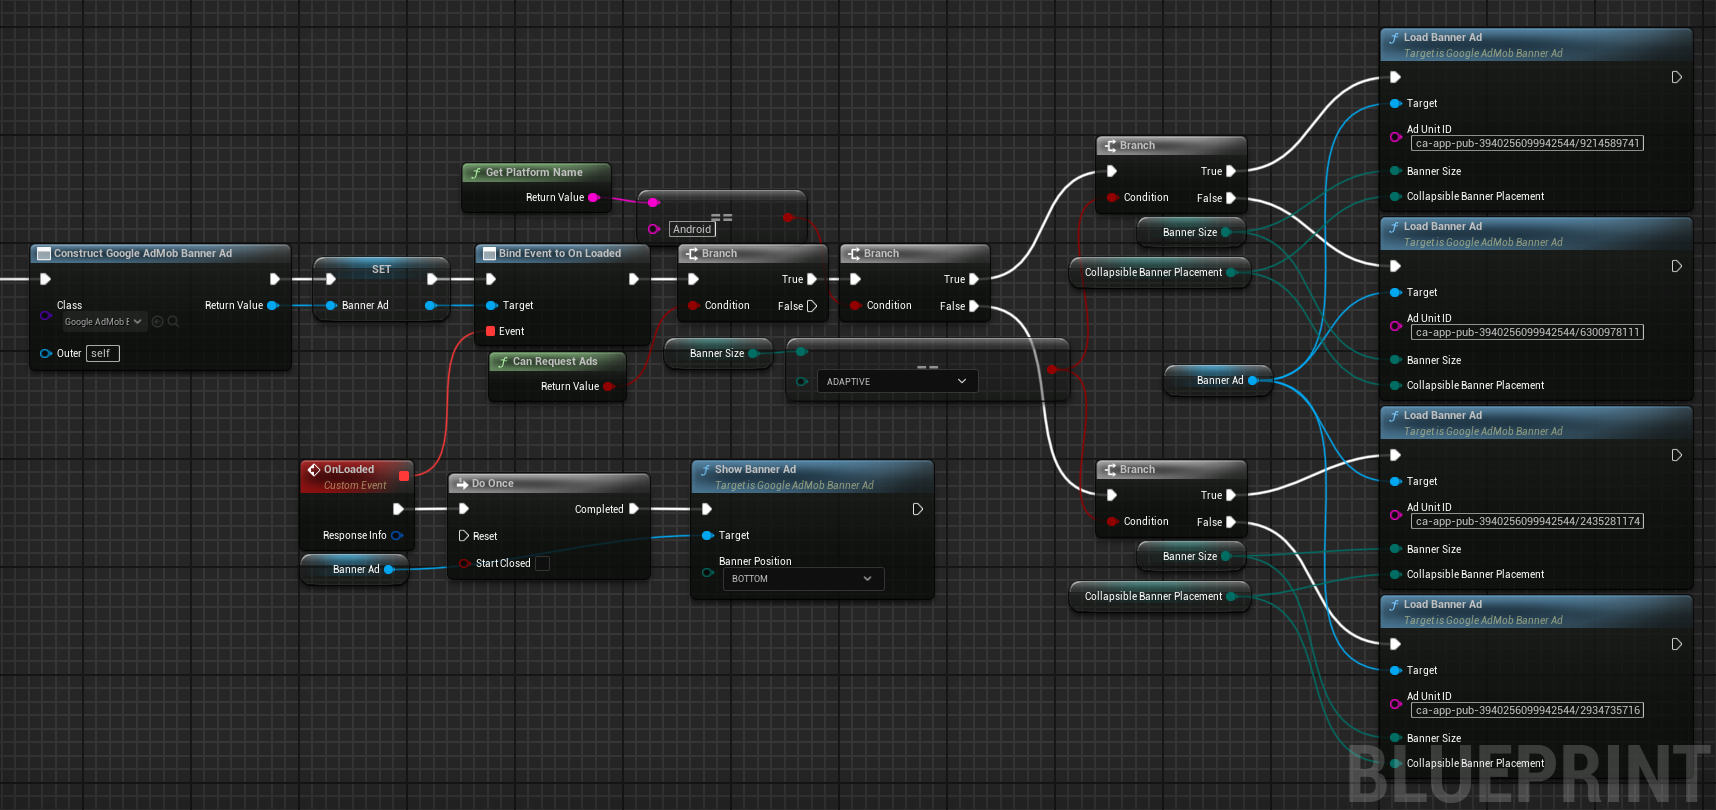
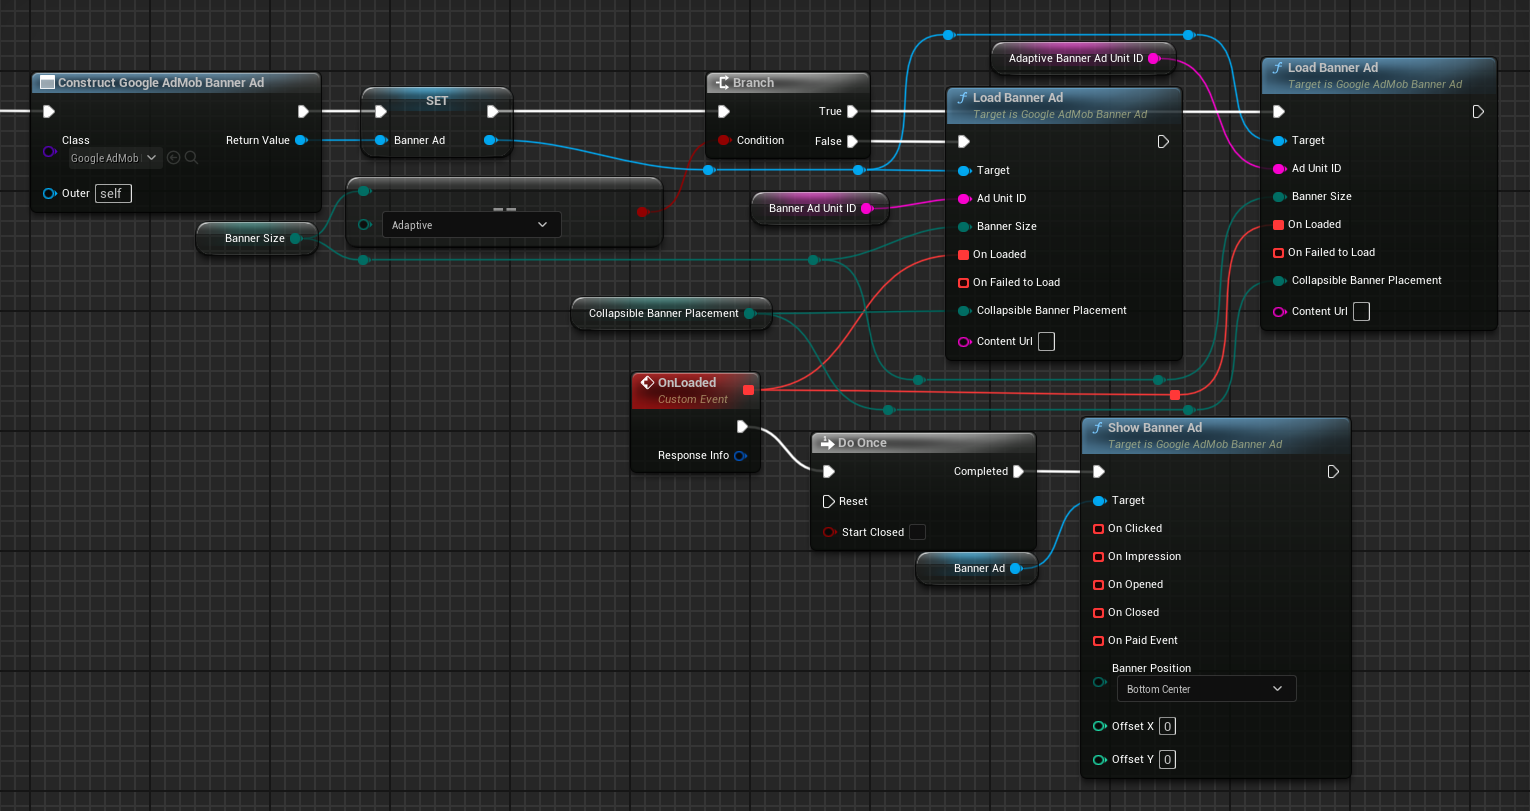
Update Google AdMob docs - Stage 2

Changed region(s): [[0.0, 0.0309, 1.0, 1.0]]

diff --git a/documentation/unreal-engine/google-admob/docs/ad-formats/banner-ads.md b/documentation/unreal-engine/google-admob/docs/ad-formats/banner-ads.md
@@ -1,3 +1,5 @@
+[If you like this plugin, please, rate it on Fab. Thank you!](https://fab.com/s/804df971aef3){ .md-button .md-button--primary }
+
 # Banner ads
 
 ![](../assets/format-banner.png){ align=left }
@@ -30,10 +32,7 @@ The following table lists the standard banner sizes.
 
 ## Prerequisites
 
-Complete the following steps described in the [Get Started guide](../index.md):
-
--   [Set up your app in your AdMob account](../index.md#set-up-your-app-in-your-admob-account).
--   [Configure your project](../index.md#configure-your-project).
+Complete the [Get Started guide](../index.md):
 
 ## Always test with test ads
 
@@ -64,15 +63,11 @@ Create a __`UGoogleAdMobBannerAd`__ object and then call __`Load()`__ method on 
 
     ``` c++
     class UGoogleAdMobBannerAd;
-    struct UGoogleAdMobResponseInfo;
     // ...
     UPROPERTY()
     TObjectPtr<UGoogleAdMobBannerAd> BannerAd;
 
     bool bIsShown = false;
-
-    UFUNCTION()
-    void OnLoaded(const UGoogleAdMobResponseInfo& ResponseInfo);
     ```
 
     Source:
@@ -83,28 +78,23 @@ Create a __`UGoogleAdMobBannerAd`__ object and then call __`Load()`__ method on 
     #include "GoogleAdMobResponseInfo.h"
     // ...
     BannerAd = NewObject<UGoogleAdMobBannerAd>(this);
-    BannerAd->OnLoaded.AddDynamic(this, &UYourClass::OnLoaded);
-    if (UGoogleAdMob::CanRequestAds())
-    {
-    #if PLATFORM_ANDROID
-        if (BannerSize == EGoogleAdMobBannerSize::ADAPTIVE)
-            BannerAd->Load("ca-app-pub-3940256099942544/9214589741", BannerSize, CollapsibleBannerPlacement);
-        else 
-            BannerAd->Load("ca-app-pub-3940256099942544/6300978111", BannerSize, CollapsibleBannerPlacement);
-    #elif PLATFORM_IOS
-        if (BannerSize == EGoogleAdMobBannerSize::ADAPTIVE)
-            BannerAd->Load("ca-app-pub-3940256099942544/2435281174", BannerSize, CollapsibleBannerPlacement);
-        else
-            BannerAd->Load("ca-app-pub-3940256099942544/2934735716", BannerSize, CollapsibleBannerPlacement);
-    #endif
-    }
-    // ...
-    void UYourClass::OnLoaded()
+    BannerAd->OnLoaded.AddLambda([this](const FGoogleAdMobResponseInfo& ResponseInfo)
     {
         if (bIsShown) return;
         BannerAd->Show(BannerPosition);
         bIsShown = true;
-    }
+    });
+    #if PLATFORM_ANDROID
+    if (BannerSize == EGoogleAdMobBannerSize::Adaptive)
+        BannerAd->Load("ca-app-pub-3940256099942544/9214589741", BannerSize, CollapsibleBannerPlacement);
+    else 
+        BannerAd->Load("ca-app-pub-3940256099942544/6300978111", BannerSize);
+    #elif PLATFORM_IOS
+    if (BannerSize == EGoogleAdMobBannerSize::Adaptive)
+        BannerAd->Load("ca-app-pub-3940256099942544/2435281174", BannerSize, CollapsibleBannerPlacement);
+    else
+        BannerAd->Load("ca-app-pub-3940256099942544/2934735716", BannerSize);
+    #endif
     ```
 
 === "Blueprints"
@@ -123,15 +113,29 @@ If you configured your ad unit to refresh, you don't need to request another ad 
 
     When setting a refresh rate in the AdMob UI, the automatic refresh occurs only if the banner is visible on screen.
 
+## Hide the ad
+
+You can hide an ad and show it later without having to reaload it. It doesn't release any resources and just removes the banner ad from the view.
+
+=== "C++"
+    
+    ``` c++
+    BannerAd->Hide();
+    ```
+
+=== "Blueprints"
+
+    ![](../assets/HideBannerAd.png)
+
 ## Release an ad resource
 
-When you are finished using a banner ad, you can release the banner ad's resources. To do it, just call __`Remove()`__ method on the banner ad.
+When you are finished using a banner ad, you can release the banner ad's resources. To do it, just call __`Destroy()`__ method on the banner ad.
 
 === "C++"
 
     ``` c++
     // ...
-    BannerAd->Remove();
+    BannerAd->Destroy();
     bIsShown = false;
     // ...
     ```
@@ -146,50 +150,19 @@ You can listen for a number of events in the ad's lifecycle, including loading, 
 
 === "C++"
 
-    Header:
-
-    ``` c++
-    struct UGoogleAdMobResponseInfo;
-    struct UGoogleAdMobAdError;
-    struct UGoogleAdMobAdValue;
-    // ...
-    UFUNCTION()
-    void OnLoaded(const UGoogleAdMobResponseInfo& ResponseInfo);
-
-    UFUNCTION()
-    void OnFailedToLoad(const UGoogleAdMobAdError& LoadAdError, const UGoogleAdMobResponseInfo& ResponseInfo);
-
-    UFUNCTION()
-    void OnClicked();
-
-    UFUNCTION()
-    void OnImpression();
-
-    UFUNCTION()
-    void OnOpened();
-
-    UFUNCTION()
-    void OnClosed();
-
-    UFUNCTION()
-    void OnPaidEvent(const UGoogleAdMobAdValue& AdValue);
-    ```
-
-    Source:
-
     ``` c++
     #include "GoogleAdMobBannerAd.h"
     #include "GoogleAdMobResponseInfo.h"
     #include "GoogleAdMobAdError.h"
     #include "GoogleAdMobAdValue.h"
     // ...
-    BannerAd->OnLoaded.AddDynamic(this, &UYourClass::OnLoaded);
-    BannerAd->OnFailedToLoad.AddDynamic(this, &UYourClass::OnFailedToLoad);
-    BannerAd->OnClicked.AddDynamic(this, &UYourClass::OnClicked);
-    BannerAd->OnImpression.AddDynamic(this, &UYourClass::OnImpression);
-    BannerAd->OnOpened.AddDynamic(this, &UYourClass::OnOpened);
-    BannerAd->OnClosed.AddDynamic(this, &UYourClass::OnClosed);
-    BannerAd->OnPaidEvent.AddDynamic(this, &UYourClass::OnPaidEvent);
+    BannerAd->OnLoaded.AddLambda([](const UGoogleAdMobResponseInfo& ResponseInfo){});
+    BannerAd->OnFailedToLoad.AddLambda([](const UGoogleAdMobAdError& LoadAdError, const UGoogleAdMobResponseInfo& ResponseInfo){});
+    BannerAd->OnClicked.AddLambda([](){});
+    BannerAd->OnImpression.AddLambda([](){});
+    BannerAd->OnOpened.AddLambda([](){});
+    BannerAd->OnClosed.AddLambda([](){});
+    BannerAd->OnPaidEvent.AddLambda([](const UGoogleAdMobAdValue& AdValue){});
     ```
 
 === "Blueprints"
@@ -208,5 +181,5 @@ You can listen for a number of events in the ad's lifecycle, including loading, 
 
 ## Sample projects
 
-- [Blueprint](https://deepinnothing.github.io/sample-projects/unreal-engine/google-admob/GoogleAdMobBP.zip)
-- [C++](https://deepinnothing.github.io/sample-projects/unreal-engine/google-admob/GoogleAdMobCPP.zip)
+- [Blueprint](https://deepinnothing.github.io/sample-projects/unreal-engine/google-admob/google-admob-bp.zip)
+- [C++](https://deepinnothing.github.io/sample-projects/unreal-engine/google-admob/google-admob-cpp.zip)

diff --git a/documentation/unreal-engine/google-admob/docs/ad-formats/app-open-ads.md b/documentation/unreal-engine/google-admob/docs/ad-formats/app-open-ads.md
@@ -71,7 +71,7 @@ Your ad should show quickly, so it's best to load your ad before you need to dis
     // ...
     AppOpenAd = NewObject<UGoogleAdMobAppOpenAd>(this);
     AppOpenAd->OnDismissed.AddUObject(this, &UYourClass::LoadAppOpenAd);
-    AppOpenAd->OnFailedToShow.AddLambda([](const UGoogleAdMobAdError& AdError)
+    AppOpenAd->OnFailedToShow.AddLambda([this](const UGoogleAdMobAdError& AdError)
     {
         UE_LOG(LogTemp, Display, TEXT("App Open Ad failed to show with error: %s"), *AdError.Message);
         LoadAppOpenAd();
